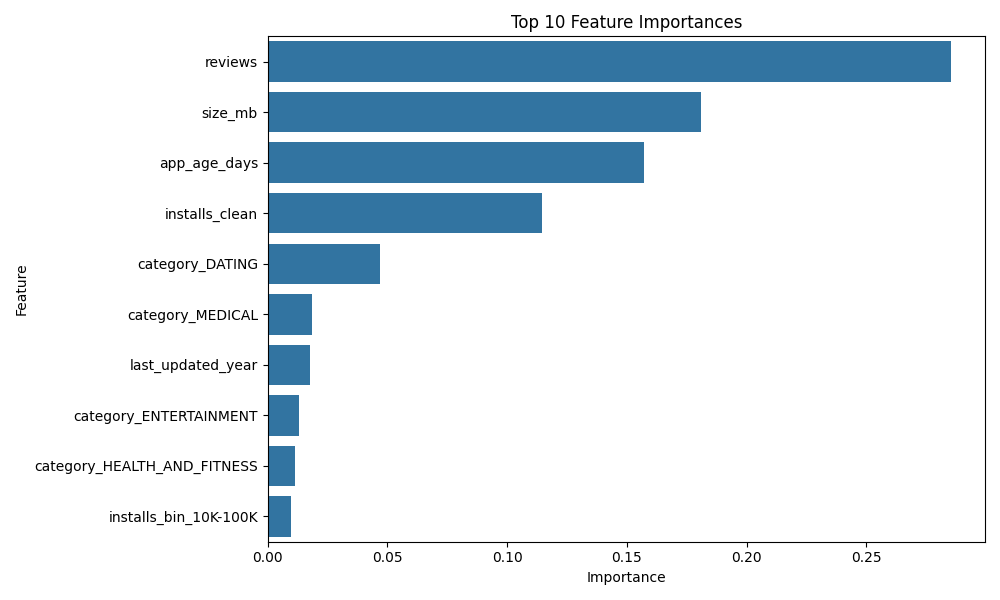
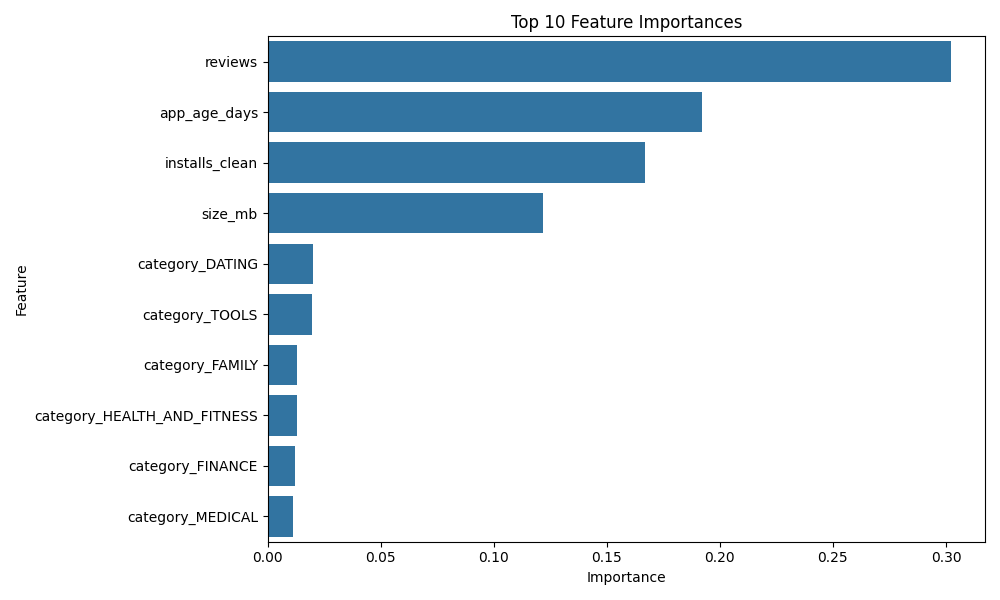
change made to regressor

diff --git a/src/build_model.py b/src/build_model.py
@@ -1,16 +1,3 @@
-#!/usr/bin/env python3
-"""
-build_model.py
-
-This script builds and evaluates a regression model to predict app ratings
-using the enhanced, combined dataset ("data/combined/combined_apps_enhanced.csv").
-The model is based on a Random Forest Regressor. The pipeline includes preprocessing
-steps that scale numerical features and one-hot encode categorical features.
-Hyperparameters are tuned using GridSearchCV, and the model is evaluated using
-R² and RMSE metrics. Finally, the script extracts and saves a barplot of the top
-10 feature importances.
-"""
-
 import os
 import sys
 import logging
@@ -24,17 +11,14 @@ from sklearn.model_selection import train_test_split, GridSearchCV
 from sklearn.pipeline import Pipeline
 from sklearn.compose import ColumnTransformer
 from sklearn.preprocessing import StandardScaler, OneHotEncoder
-from sklearn.ensemble import RandomForestRegressor
+from sklearn.ensemble import RandomForestRegressor, HistGradientBoostingRegressor
+from sklearn.dummy import DummyRegressor
 from sklearn.metrics import mean_squared_error, r2_score
 
 # Configure logging
-logging.basicConfig(
-    level=logging.INFO, format="%(asctime)s - %(levelname)s - %(message)s"
-)
-
+logging.basicConfig(level=logging.INFO, format="%(asctime)s - %(levelname)s - %(message)s")
 
 def load_data(data_path):
-    """Load the enhanced combined dataset."""
     if not os.path.exists(data_path):
         logging.error(f"Data file not found at: {data_path}")
         sys.exit(1)
@@ -42,153 +26,101 @@ def load_data(data_path):
     logging.info(f"Data loaded from {data_path} with shape: {df.shape}")
     return df
 
-
-def preprocess_data(df):
-    """
-    Preprocess the data and select features for modeling.
-    Drops rows missing the target variable ('rating') and selects a set of features.
-    """
-    # Drop rows missing the target rating
+def preprocess_data(df, include_price=True):
     df = df.dropna(subset=["rating"])
     logging.info(f"After dropping missing ratings, data shape: {df.shape}")
 
-    # Features selected for modeling (adjust based on domain knowledge)
-    features = [
-        "app_age_days",  # Age of the app in days since last update
-        "reviews",  # Number of reviews
-        "size_mb",  # App size (MB)
-        "installs_clean",  # Number of installs (numeric)
-        "paid_flag",  # Binary flag (0: Free, 1: Paid)
-        "installs_bin",  # Binned installs category
-        "category",  # App category (categorical)
-        "platform",  # Platform identifier (FDroid, Google Play)
-        "last_updated_year",  # Year extracted from the last update date
-    ]
-    target = "rating"
+    df['last_updated_date'] = pd.to_datetime(df['last_updated_date'], errors='coerce')
+    today = pd.Timestamp.today()
+    df['app_age_days'] = (today - df['last_updated_date']).dt.days
 
-    # Keep only the selected features and target; drop rows with missing values in these columns
+    bins = [0, 10000, 100000, 1000000, np.inf]
+    labels = ['<10K', '10K-100K', '100K-1M', '1M+']
+    df['installs_bin'] = pd.cut(df['installs_clean'], bins=bins, labels=labels)
+
+    df['log_reviews'] = np.log1p(df['reviews'])
+    df['log_installs'] = np.log1p(df['installs_clean'])
+
+    features = ["app_age_days", "log_reviews", "size_mb", "log_installs"]
+    if include_price:
+        features.append("price_clean")
+    features += ["installs_bin", "category"]
+
+    target = "rating"
     df_model = df[features + [target]].dropna()
-    logging.info(
-        f"After selecting features and dropping missing values, data shape: {df_model.shape}"
-    )
+    logging.info(f"Data shape with{'out' if not include_price else ''} price: {df_model.shape}")
     return df_model, features, target
 
-
 def build_preprocessor(numerical_features, categorical_features):
-    """Build a ColumnTransformer to preprocess numerical and categorical features."""
     numerical_transformer = StandardScaler()
-    categorical_transformer = OneHotEncoder(handle_unknown="ignore")
-    preprocessor = ColumnTransformer(
-        transformers=[
-            ("num", numerical_transformer, numerical_features),
-            ("cat", categorical_transformer, categorical_features),
-        ]
-    )
+    categorical_transformer = OneHotEncoder(handle_unknown="ignore", sparse_output=False)
+    preprocessor = ColumnTransformer([
+        ("num", numerical_transformer, numerical_features),
+        ("cat", categorical_transformer, categorical_features)
+    ])
     return preprocessor
 
-
-def build_pipeline(preprocessor):
-    """Construct a modeling pipeline with the preprocessor and a Random Forest regressor."""
-    pipeline = Pipeline(
-        steps=[
-            ("preprocessor", preprocessor),
-            ("regressor", RandomForestRegressor(random_state=42)),
-        ]
-    )
-    return pipeline
-
-
-def main():
-    # Define the path to the enhanced combined dataset (relative to project root)
-    data_path = os.path.join("data", "combined", "combined_apps_enhanced.csv")
-    df = load_data(data_path)
-
-    # Preprocess the data: select features and target
-    df_model, features, target = preprocess_data(df)
-
-    # Split dataset into features (X) and target (y)
-    X = df_model.drop(target, axis=1)
-    y = df_model[target]
-
-    # Split data into training and test sets (80/20 split)
-    X_train, X_test, y_train, y_test = train_test_split(
-        X, y, test_size=0.2, random_state=42
-    )
-    logging.info(f"Training set shape: {X_train.shape}")
-    logging.info(f"Test set shape: {X_test.shape}")
-
-    # Define numerical and categorical features for the preprocessor
-    numerical_features = [
-        "app_age_days",
-        "reviews",
-        "size_mb",
-        "installs_clean",
-        "paid_flag",
-        "last_updated_year",
-    ]
-    categorical_features = ["installs_bin", "category", "platform"]
-
-    # Build the preprocessor and modeling pipeline
-    preprocessor = build_preprocessor(numerical_features, categorical_features)
-    pipeline = build_pipeline(preprocessor)
-
-    # Define hyperparameter grid for the RandomForestRegressor
-    param_grid = {
-        "regressor__n_estimators": [50, 100],
-        "regressor__max_depth": [None, 10, 20],
-    }
-
-    # Tune hyperparameters using GridSearchCV with 5-fold cross-validation
-    grid_search = GridSearchCV(pipeline, param_grid, cv=5, scoring="r2", n_jobs=-1)
-    grid_search.fit(X_train, y_train)
-
-    logging.info(f"Best hyperparameters: {grid_search.best_params_}")
-    logging.info(f"Best cross-validation R^2 score: {grid_search.best_score_:.4f}")
-
-    # Evaluate the best model on the test set
-    y_pred = grid_search.predict(X_test)
+def evaluate_model(name, model, X_test, y_test):
+    y_pred = model.predict(X_test)
     r2 = r2_score(y_test, y_pred)
     rmse = np.sqrt(mean_squared_error(y_test, y_pred))
-    logging.info(f"Test set R^2: {r2:.4f}")
-    logging.info(f"Test set RMSE: {rmse:.4f}")
+    logging.info(f"{name} R^2: {r2:.4f}, RMSE: {rmse:.4f}")
+    return y_pred, r2, rmse
 
-    # Extract feature importances from the best model
-    best_model = grid_search.best_estimator_
-    regressor = best_model.named_steps["regressor"]
+def plot_predictions(y_true, y_pred, title, filename):
+    plt.figure(figsize=(6, 6))
+    sns.scatterplot(x=y_true, y=y_pred, alpha=0.5)
+    plt.plot([1, 5], [1, 5], linestyle='--', color='red')
+    plt.xlabel("Actual Rating")
+    plt.ylabel("Predicted Rating")
+    plt.title(title)
+    plt.tight_layout()
+    plt.savefig(filename)
+    plt.close()
+
+def plot_feature_importance(model, preprocessor, numerical_features, categorical_features, filename):
+    regressor = model.named_steps['regressor']
     importances = regressor.feature_importances_
-
-    # Retrieve one-hot encoded feature names from the preprocessor for categorical features
-    cat_feature_names = list(
-        best_model.named_steps["preprocessor"]
-        .transformers_[1][1]
-        .get_feature_names_out(categorical_features)
-    )
+    cat_feature_names = list(preprocessor.transformers_[1][1].get_feature_names_out(categorical_features))
     all_features = numerical_features + cat_feature_names
-
-    # Create a DataFrame for the feature importances and sort them
-    feat_importances = pd.DataFrame(
-        {"feature": all_features, "importance": importances}
-    )
+    feat_importances = pd.DataFrame({"feature": all_features, "importance": importances})
     feat_importances = feat_importances.sort_values(by="importance", ascending=False)
-    logging.info("Top 10 Feature Importances:")
-    print(feat_importances.head(10))
-
-    # Plot the top 10 feature importances
     plt.figure(figsize=(10, 6))
     sns.barplot(x="importance", y="feature", data=feat_importances.head(10))
     plt.title("Top 10 Feature Importances")
-    plt.xlabel("Importance")
-    plt.ylabel("Feature")
     plt.tight_layout()
-
-    # Ensure output directory for plots exists
-    plot_dir = os.path.join("images")
-    os.makedirs(plot_dir, exist_ok=True)
-    plot_path = os.path.join(plot_dir, "feature_importances.png")
-    plt.savefig(plot_path)
+    plt.savefig(filename)
     plt.close()
-    logging.info(f"Feature importances plot saved to {plot_path}")
+    logging.info(f"Feature importance plot saved to {filename}")
 
+def run_pipeline(include_price):
+    label = "with_price" if include_price else "without_price"
+    df = load_data(os.path.join("data", "cleaned", "googleplay_cleaned.csv"))
+    df_model, features, target = preprocess_data(df, include_price=include_price)
+
+    X = df_model.drop(target, axis=1)
+    y = df_model[target]
+    X_train, X_test, y_train, y_test = train_test_split(X, y, test_size=0.2, random_state=42)
+
+    numerical_features = [f for f in ["app_age_days", "log_reviews", "size_mb", "log_installs", "price_clean"] if f in X.columns]
+    categorical_features = ["installs_bin", "category"]
+
+    preprocessor = build_preprocessor(numerical_features, categorical_features)
+    rf_pipeline = Pipeline([("preprocessor", preprocessor), ("regressor", RandomForestRegressor(random_state=42))])
+    rf_pipeline.fit(X_train, y_train)
+
+    y_pred, r2, rmse = evaluate_model(f"RandomForest ({label})", rf_pipeline, X_test, y_test)
+    plot_predictions(y_test, y_pred, f"Predicted vs Actual Ratings ({label})", f"images/pred_vs_actual_{label}.png")
+
+    if include_price:
+        plot_feature_importance(rf_pipeline, preprocessor, numerical_features, categorical_features, f"images/feature_importance_{label}.png")
+
+    return r2, rmse
+
+def main():
+    r2_with, rmse_with = run_pipeline(include_price=True)
+    r2_without, rmse_without = run_pipeline(include_price=False)
+    logging.info(f"\nComparison Summary:\nWith Price - R^2: {r2_with:.4f}, RMSE: {rmse_with:.4f}\nWithout Price - R^2: {r2_without:.4f}, RMSE: {rmse_without:.4f}")
 
 if __name__ == "__main__":
     main()
